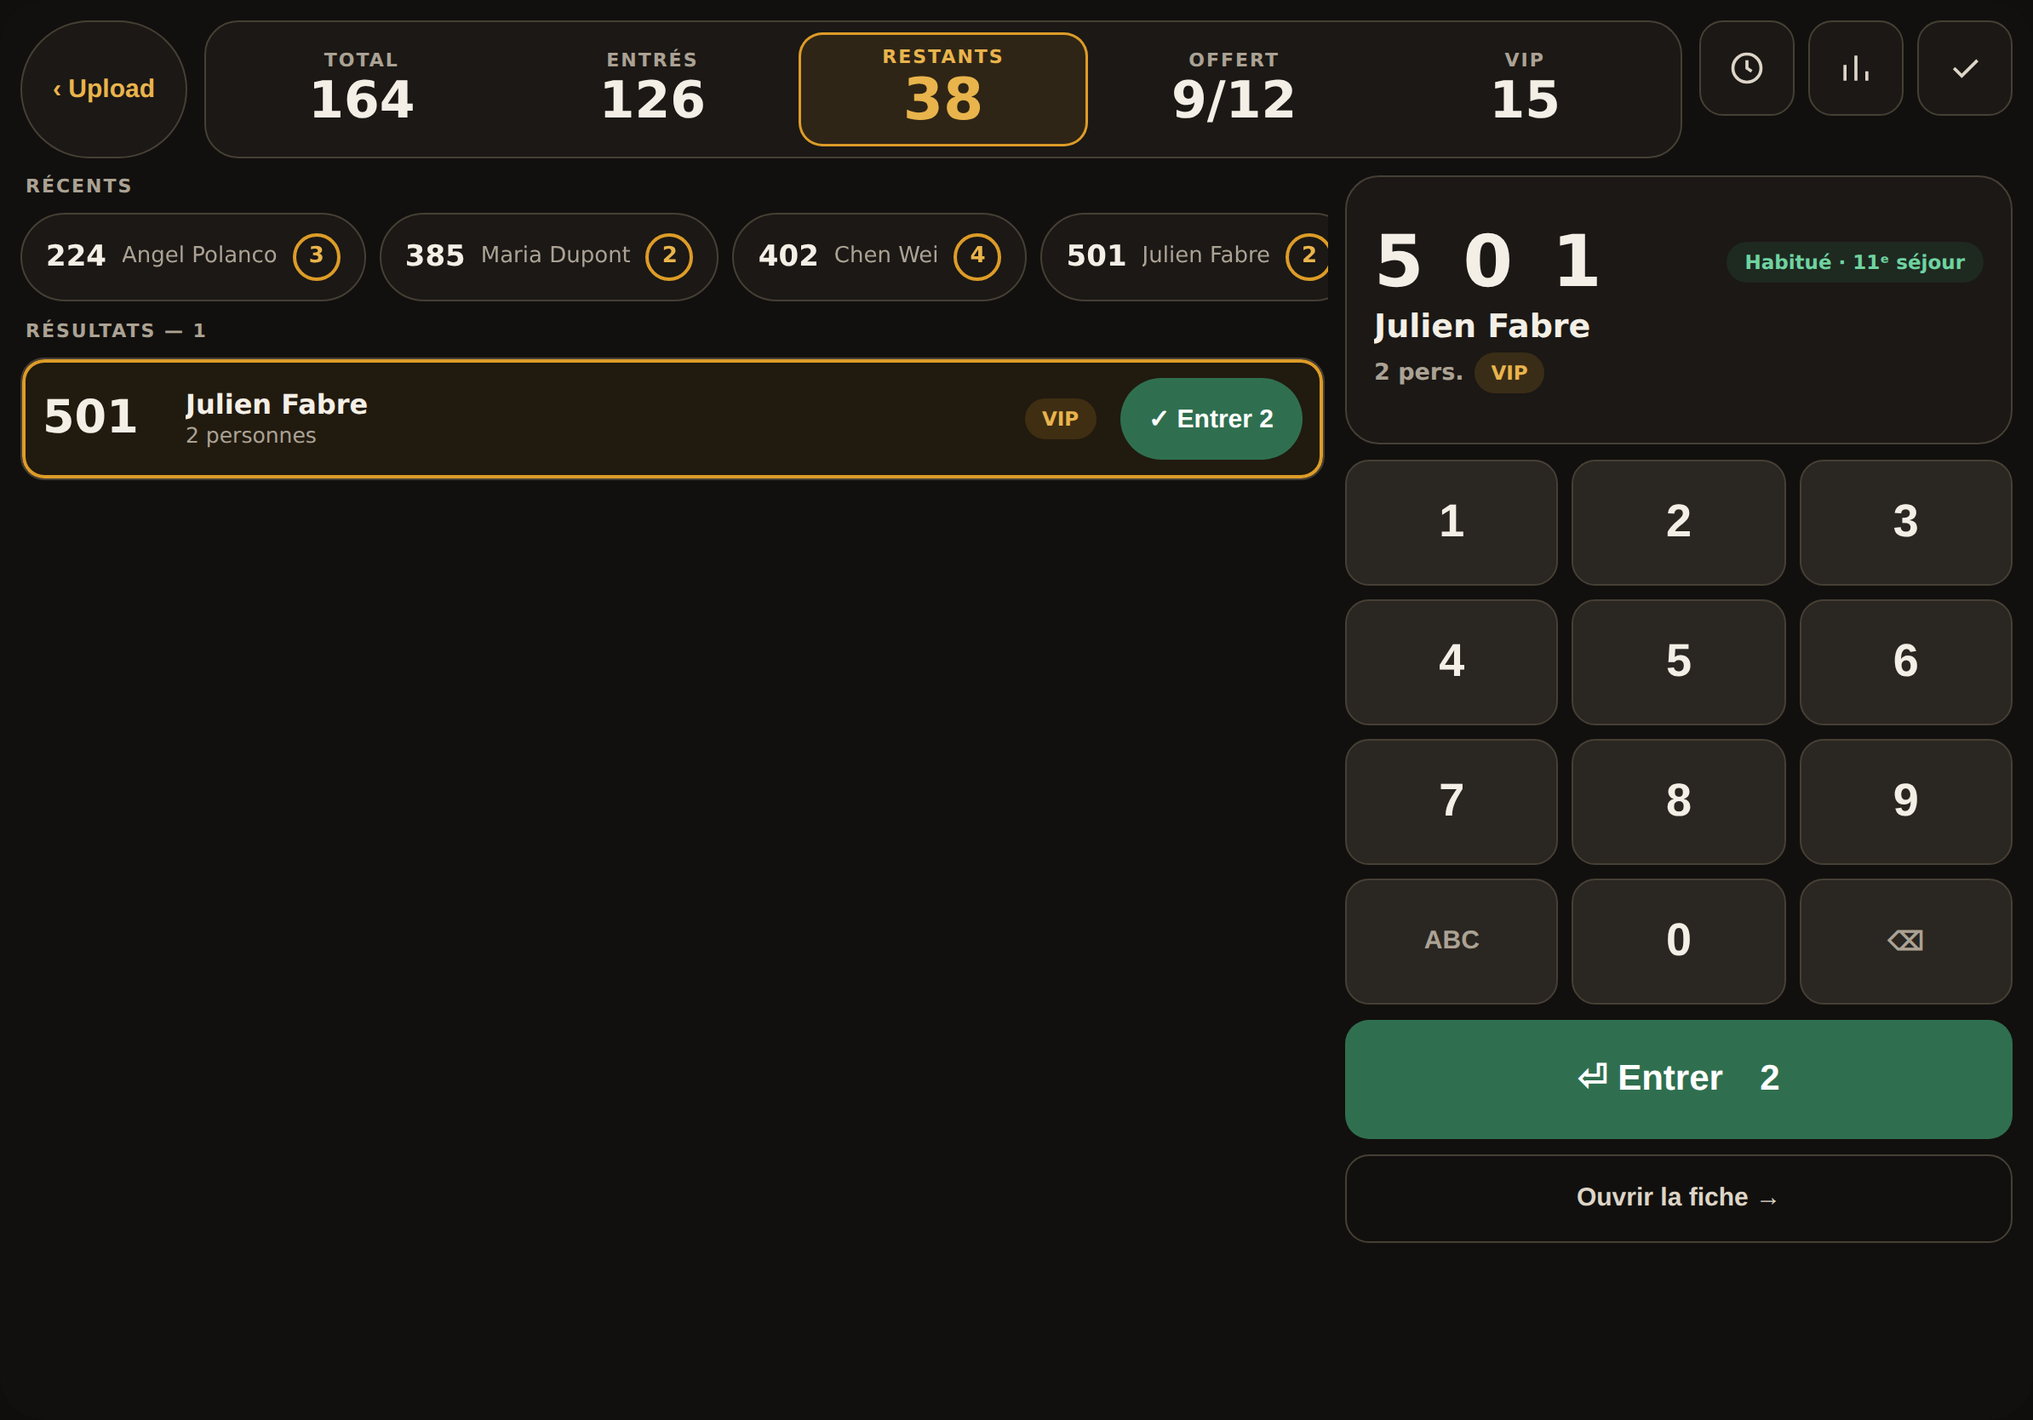
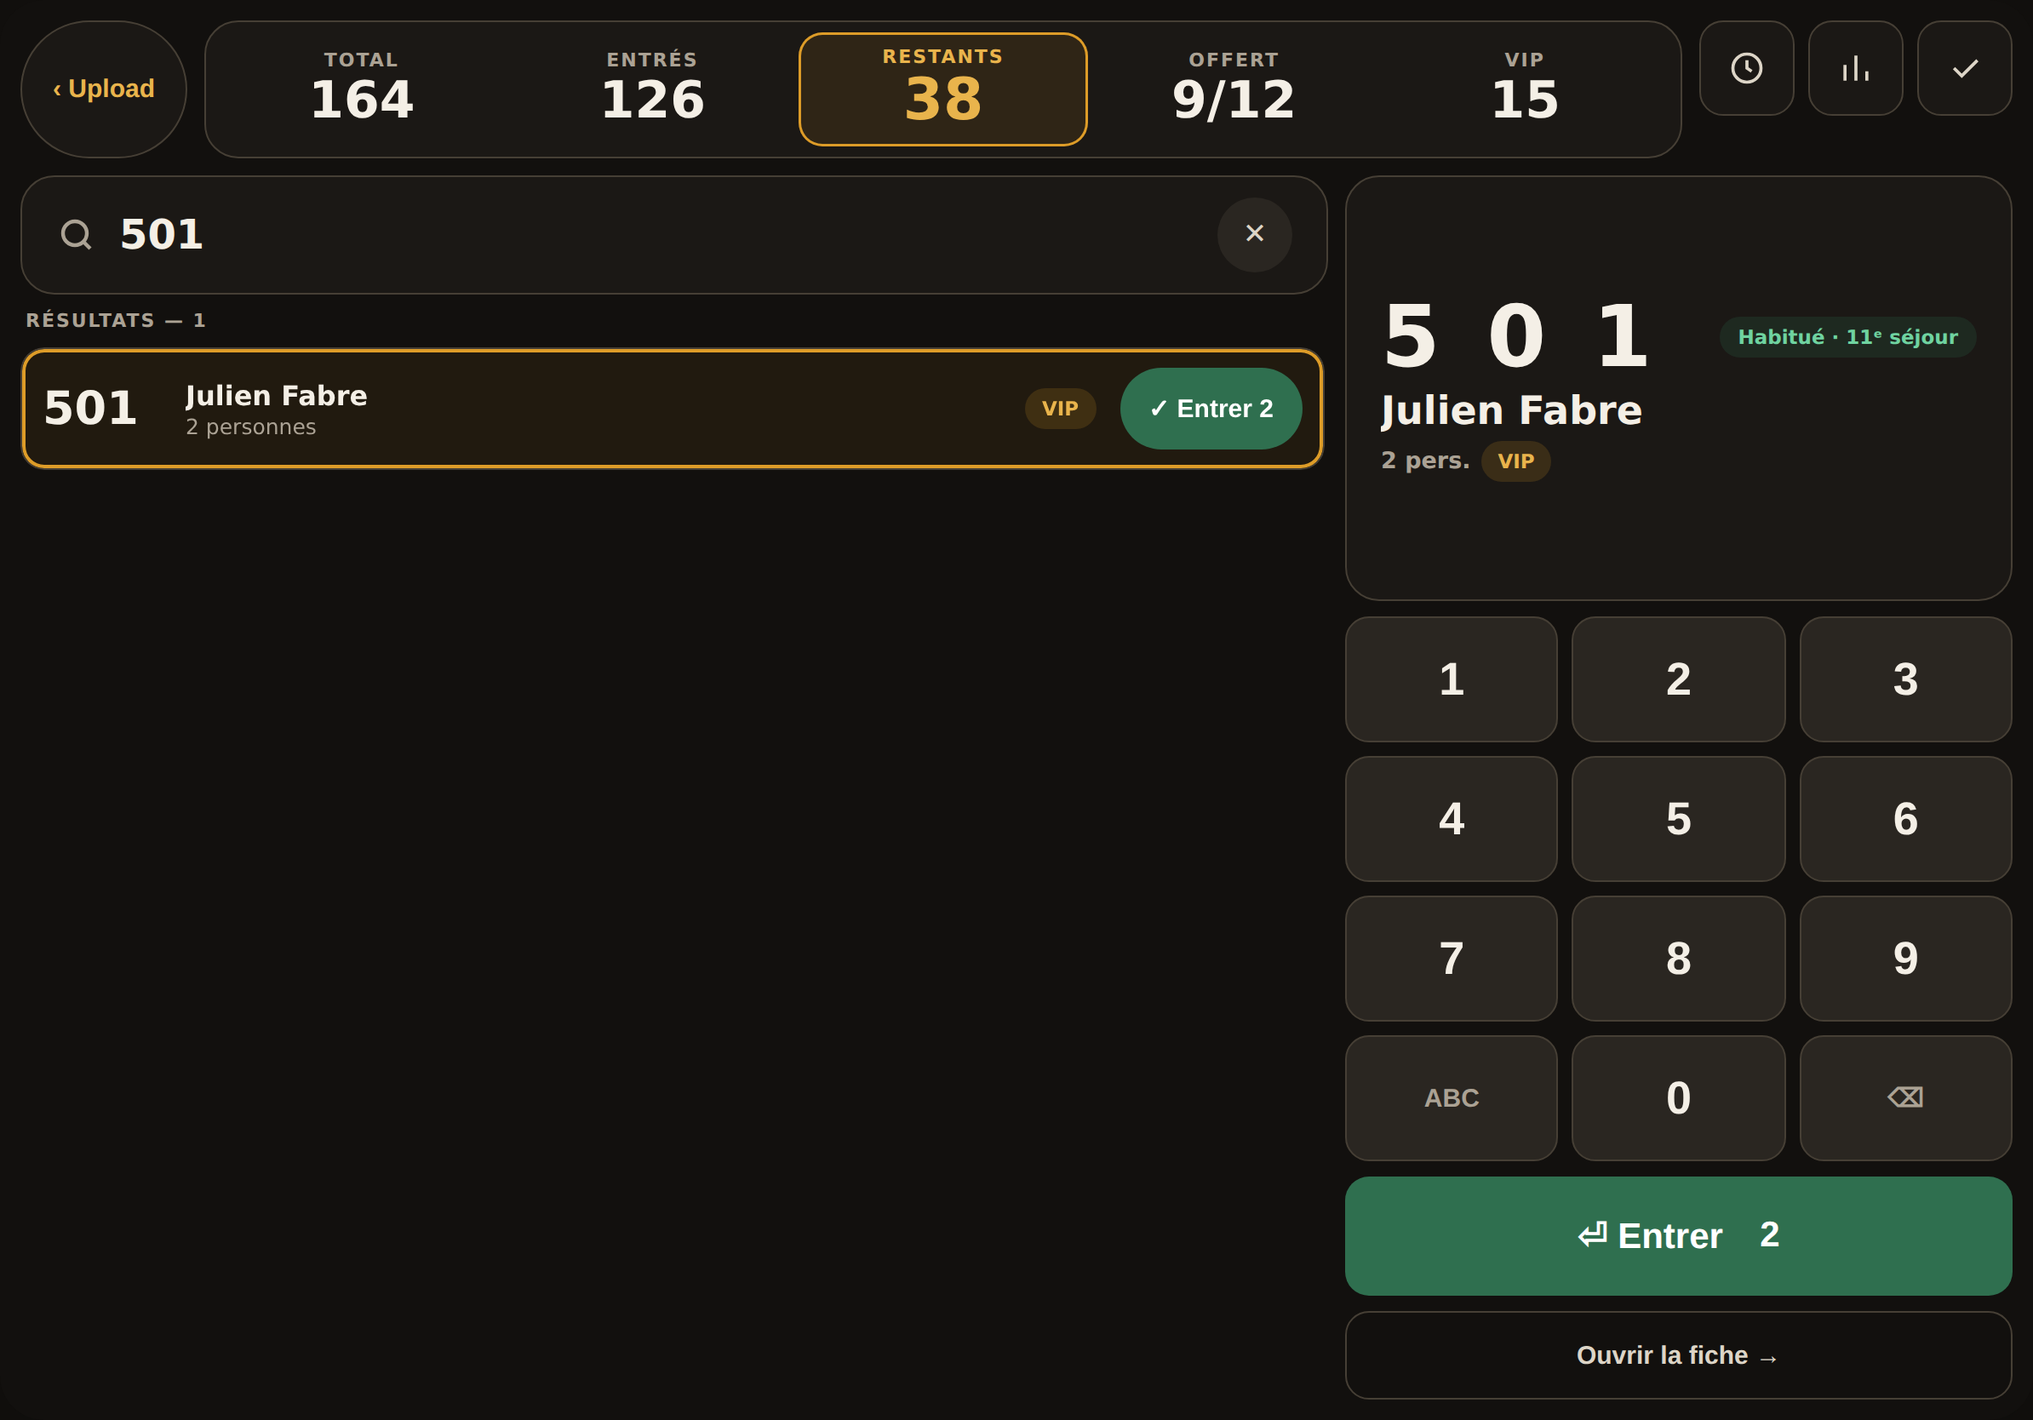
Search v2: swipe actions, big search bar, keypad pinned to the bottom
Swipe, per the tablet gesture idea, with one change I argued for: right
finishes the room, left adds exactly ONE and the row stays in place with
live progress (2/4 entrés + bar). Repeated swiping for a family of four
would have been slower than the counter it replaced, and 'right = all,
left = one-by-one' gave two same-valence gestures with nothing to make
the direction memorable. Right = finish, left = add one is learnable.

Guardrails, because a gesture is easier to fire by accident than a tap:
the visible buttons stay (swipe is invisible and unusable for anyone who
cannot perform it), every commit raises an undo toast, swipe is disabled
on alert / à encaisser rows, and a failed write snaps back instead of
animating a success it did not earn.

The right column now pins the keypad and CTA to the bottom and gives the
whole top to the clock/preview, which grows the clock to 66px.

The recents strip is replaced by a large search bar — recents already
exist as the Historique panel behind the clock icon. The field takes
digits from the keypad and names from ABC; a name that narrows to a
single guest counts as a hit, so Enter works for names too.

Fixes a bug this introduced: wrapping rows in the swipe container made
them flex-shrinkable, so they overlapped and clipped their own second
line.

Claude-Session: https://claude.ai/code/session_01PvjN1yrwGssKpuvjG4vcfR

diff --git a/mockups/search-v2.html b/mockups/search-v2.html
@@ -31,7 +31,7 @@
     font-family:'Nunito',-apple-system,system-ui,sans-serif;
     -webkit-font-smoothing:antialiased;
   }
-  .frame{width:1194px;height:834px;margin:18px auto;display:flex;flex-direction:column;
+  .frame{position:relative;width:1194px;height:834px;margin:18px auto;display:flex;flex-direction:column;
     gap:10px;padding:12px;background:var(--bg);border-radius:26px;overflow:hidden;
     box-shadow:0 30px 90px -30px rgba(0,0,0,.6)}
 
@@ -69,6 +69,17 @@
   .sec{font-size:11px;letter-spacing:.09em;text-transform:uppercase;
     color:var(--muted);font-weight:800;padding-left:3px}
 
+  /* search bar — the keypad fills it with digits, the on-screen ABC or a
+     paired keyboard fills it with a name. One field, two ways in. */
+  .searchbar{display:flex;align-items:center;gap:13px;padding:0 20px;min-height:70px;
+    background:var(--surface);border:1.5px solid var(--key-edge);border-radius:var(--r-lg)}
+  .searchbar svg{width:24px;height:24px;color:var(--muted);flex:none}
+  .searchbar input{flex:1;min-width:0;background:none;border:none;outline:none;
+    font:inherit;font-size:24px;font-weight:700;color:var(--ink)}
+  .searchbar input::placeholder{color:var(--muted);font-weight:600}
+  .clearq{width:44px;height:44px;border-radius:999px;border:none;background:var(--key);
+    color:var(--ink-2);font-size:17px;cursor:pointer;flex:none}
+
   /* recents strip */
   .recents{display:flex;gap:8px;overflow-x:auto;padding-bottom:2px}
   .chip{flex:none;display:flex;align-items:center;gap:9px;padding:0 14px;min-height:52px;
@@ -100,6 +111,39 @@
     /* A guest carrying an alert, or one who still owes for breakfast, cannot be
      waved through from the list. The row sends you to the fiche instead. */
   .go.needs{background:transparent;border:1.5px solid var(--key-edge);color:var(--ink-2)}
+
+  /* ── swipe ──────────────────────────────────────────────
+     Right = finish the room. Left = add one, row stays with live progress.
+     The buttons above remain the primary route: a gesture is invisible, and
+     an invisible-only action is unusable for anyone who cannot perform it. */
+  .swipe{flex:none;position:relative;border-radius:var(--r-md);overflow:hidden}
+  .sw-bg{position:absolute;inset:0;display:flex;align-items:center;padding:0 24px;
+    font-weight:800;font-size:15.5px;color:#fff;opacity:0}
+  .sw-all{background:var(--good);justify-content:flex-start}
+  .sw-one{background:var(--gold-deep);justify-content:flex-end}
+  .swipe .row{position:relative;touch-action:pan-y;will-change:transform;user-select:none}
+  .swipe .row.snap{transition:transform .24s cubic-bezier(.2,.85,.25,1)}
+  .swipe.locked .sw-bg{background:var(--key)}
+  .prog{height:5px;border-radius:999px;background:var(--key);overflow:hidden;
+    margin-top:5px;max-width:190px;border:1px solid var(--key-edge)}
+  .prog i{display:block;height:100%;background:var(--good);border-radius:999px;
+    transition:width .3s cubic-bezier(.2,.85,.25,1)}
+  .pop{position:absolute;right:150px;top:50%;transform:translateY(-50%);
+    font-size:23px;font-weight:800;color:var(--good-ink);pointer-events:none;
+    animation:popUp .62s cubic-bezier(.2,.8,.2,1) forwards}
+  @keyframes popUp{
+    0%{opacity:0;transform:translateY(-50%) scale(.6)}
+    22%{opacity:1;transform:translateY(-95%) scale(1.18)}
+    100%{opacity:0;transform:translateY(-210%) scale(1)}}
+
+  .toast{position:absolute;left:50%;bottom:18px;transform:translateX(-50%);
+    display:flex;align-items:center;gap:14px;padding:0 10px 0 20px;min-height:56px;
+    background:var(--surface);border:1px solid var(--key-edge);border-radius:999px;
+    box-shadow:0 18px 44px -14px rgba(0,0,0,.6);font-size:14.5px;font-weight:700;
+    z-index:40;animation:tIn .2s ease-out}
+  .toast button{min-height:44px;padding:0 18px;border-radius:999px;border:none;
+    background:var(--gold);color:#241F19;font-weight:800;font-size:14px;cursor:pointer}
+  @keyframes tIn{from{opacity:0;transform:translate(-50%,10px)}to{opacity:1;transform:translate(-50%,0)}}
   .row.done{opacity:.5}
   .row.done .go{background:transparent;color:var(--gold-ink);border:1.5px solid var(--key-edge)}
 
@@ -107,29 +151,33 @@
   /* One box, two jobs. Idle it is the service clock; searching it is the
      guest preview. Height is FIXED so the keypad never shifts under a
      thumb that is already moving toward it. */
+  /* The preview/clock takes ALL the space above; the keypad and its CTA are
+     pinned to the bottom of the column. Same rule as R1 on the check-in
+     screen: the thing you must reach never drifts away from the thumb. */
   .detail{background:var(--surface);border:1px solid var(--key-edge);
-    border-radius:var(--r-lg);padding:13px 16px;height:158px;display:flex;
+    border-radius:var(--r-lg);padding:18px 20px;flex:1;min-height:158px;display:flex;
     flex-direction:column;justify-content:center;overflow:hidden}
+  .pad,.enter,.secondary{flex:none}
 
   /* idle — service clock */
   .clockrow{display:flex;align-items:baseline;gap:10px}
-  .clock{font-size:52px;font-weight:800;line-height:1;font-variant-numeric:tabular-nums;
+  .clock{font-size:66px;font-weight:800;line-height:1;font-variant-numeric:tabular-nums;
     letter-spacing:-.01em}
   .rush{font-size:11px;font-weight:800;letter-spacing:.07em;text-transform:uppercase;
     padding:4px 9px;border-radius:999px;background:rgba(221,156,40,.16);color:var(--gold-ink)}
-  .bar{height:7px;border-radius:999px;background:var(--key);overflow:hidden;margin:11px 0 7px;
+  .bar{height:9px;border-radius:999px;background:var(--key);overflow:hidden;margin:11px 0 7px;
     border:1px solid var(--key-edge)}
   .bar i{display:block;height:100%;background:var(--gold);border-radius:999px}
-  .svc{display:flex;justify-content:space-between;font-size:12.5px;color:var(--muted);
+  .svc{display:flex;justify-content:space-between;font-size:13.5px;color:var(--muted);
     font-weight:700}
   .svc b{color:var(--ink-2)}
 
   /* searching — guest preview */
-  .typed{font-size:42px;font-weight:800;letter-spacing:.10em;font-variant-numeric:tabular-nums;
+  .typed{font-size:50px;font-weight:800;letter-spacing:.10em;font-variant-numeric:tabular-nums;
     line-height:1}
   .typed .ph{color:var(--muted);opacity:.45}
   .prow{display:flex;align-items:center;justify-content:space-between;gap:10px}
-  .dname{font-size:19px;font-weight:700;margin-top:6px;white-space:nowrap;overflow:hidden;
+  .dname{font-size:23px;font-weight:700;margin-top:6px;white-space:nowrap;overflow:hidden;
     text-overflow:ellipsis}
   .dsub{font-size:13.5px;color:var(--muted);margin-top:4px;display:flex;gap:6px;align-items:center;flex-wrap:wrap}
   .dnone{font-size:14px;color:var(--muted);margin-top:8px}
@@ -192,8 +240,11 @@
   <!-- body -->
   <div class="body" id="split">
     <div class="left">
-      <div class="sec">Récents</div>
-      <div class="recents" id="recents"></div>
+      <div class="searchbar">
+        <svg viewBox="0 0 24 24" fill="none" stroke="currentColor" stroke-width="2.2"><circle cx="11" cy="11" r="7"/><path d="M20 20l-3.5-3.5"/></svg>
+        <input id="q" placeholder="Chambre ou nom du client…" autocomplete="off">
+        <button class="clearq" id="clearq" aria-label="Effacer">✕</button>
+      </div>
       <div class="sec" id="listLabel">Restants — 38 chambres</div>
       <div class="list" id="list"></div>
     </div>
@@ -244,12 +295,25 @@ document.addEventListener("keydown", e=>{
 function press(k){
   if(k==="⌫") typed = typed.slice(0,-1);
   else if(k==="ABC"){ /* alpha mode — out of scope for the mockup */ }
-  else if(typed.length<4) typed += k;
+  else if(typed.length<12) typed += k;
+  el("q").value = typed;
   render();
 }
 
-function match(){ return ROOMS.filter(x=>x.r.startsWith(typed)); }
-function exact(){ return typed.length>=3 ? ROOMS.find(x=>x.r===typed) : null; }
+const isNum = (q)=>/^\d+$/.test(q);
+function match(){
+  const q = typed.trim().toLowerCase();
+  if(!q) return ROOMS;
+  return isNum(q) ? ROOMS.filter(x=>x.r.startsWith(q))
+                  : ROOMS.filter(x=>x.n.toLowerCase().includes(q));
+}
+/* A "hit" is an unambiguous target: the exact room, or the only name left. */
+function exact(){
+  const q = typed.trim().toLowerCase(); if(!q) return null;
+  if(isNum(q)) return q.length>=3 ? ROOMS.find(x=>x.r===q) : null;
+  const m = match();
+  return q.length>=2 && m.length===1 ? m[0] : null;
+}
 
 function tagsFor(x){
   let t="";
@@ -288,7 +352,7 @@ function serviceBox(){
     </div>`;
 }
 
-function render(){
+var render = function(){
   const hit = exact();
   const near = match();
 
@@ -298,15 +362,15 @@ function render(){
   } else if(hit){
     el("detail").innerHTML = `
       <div class="prow">
-        <div class="typed">${typed.split("").join(" ")}</div>
+        <div class="typed">${isNum(typed)?typed.split("").join(" "):typed}</div>
         ${whoBadge(hit)}
       </div>
       <div class="dname">${hit.n}</div>
       <div class="dsub"><b>${hit.p} pers.</b> ${tagsFor(hit)}</div>`;
   } else {
     el("detail").innerHTML = `
-      <div class="typed">${typed.split("").join(" ")}</div>
-      <div class="dnone">${near.length} chambre(s) commencent par ${typed}</div>`;
+      <div class="typed">${isNum(typed)?typed.split("").join(" "):typed}</div>
+      <div class="dnone">${near.length} résultat(s) pour « ${typed} »</div>`;
   }
 
   /* ── actions ── */
@@ -338,36 +402,121 @@ function render(){
   el("listLabel").textContent = typed
     ? `Résultats — ${shown.length}`
     : `Restants — ${ROOMS.filter(x=>!x.done).length} chambres`;
-  el("list").innerHTML = shown.map(x=>`
-    <div class="row ${x.done?"done":""} ${hit&&hit.r===x.r?"hit":""}">
-      <div class="rm">${x.r}</div>
-      <div class="nm">
-        <div class="n">${x.n}</div>
-        <div class="s">${x.p} personne${x.p>1?"s":""}${x.done?" · déjà entré":""}</div>
+  el("list").innerHTML = shown.map(x=>{
+    const inn = x.in || 0, rem = x.p - inn, done = rem <= 0;
+    const locked = !!(x.alert || x.pay);   // no gesture past an allergy or a bill
+    return `
+    <div class="swipe ${locked?"locked":""}" data-r="${x.r}">
+      <div class="sw-bg sw-all">✓ Entrer tous (${rem})</div>
+      <div class="sw-bg sw-one">+1 personne</div>
+      <div class="row ${done?"done":""} ${hit&&hit.r===x.r?"hit":""}">
+        <div class="rm">${x.r}</div>
+        <div class="nm">
+          <div class="n">${x.n}</div>
+          <div class="s">${done ? "tous entrés" : inn ? `${inn}/${x.p} entrés` : `${x.p} personne${x.p>1?"s":""}`}</div>
+          ${inn && !done ? `<div class="prog"><i style="width:${(inn/x.p*100)}%"></i></div>` : ""}
+        </div>
+        <div class="tags">${tagsFor(x)}</div>
+        <button class="go ${locked&&!done?"needs":""}">${
+          done ? "✓ Entré"
+          : x.alert ? "⚠ Ouvrir →"
+          : x.pay   ? "Encaisser →"
+          : "✓ Entrer "+rem}</button>
       </div>
-      <div class="tags">${tagsFor(x)}</div>
-      <button class="go ${(x.alert||x.pay)&&!x.done?"needs":""}">${
-        x.done ? "✓ Entré"
-        : x.alert ? "⚠ Ouvrir →"
-        : x.pay   ? "Encaisser →"
-        : "✓ Entrer "+x.p}</button>
-    </div>`).join("");
-}
+    </div>`;}).join("");
+};
 
-el("recents").innerHTML = RECENT.map(r=>{
-  const x = ROOMS.find(y=>y.r===r);
-  return `<div class="chip" data-r="${r}"><b>${x.r}</b><span class="who">${x.n}</span><span class="pax">${x.p}</span></div>`;
-}).join("");
-el("recents").addEventListener("click",e=>{
-  const c=e.target.closest("[data-r]"); if(!c) return;
-  typed=c.dataset.r; render();
-});
+
+el("q").addEventListener("input", (e)=>{ typed = e.target.value; render(); });
+el("clearq").addEventListener("click", ()=>{ typed=""; el("q").value=""; el("q").focus(); render(); });
 
 function doEnter(){
   const hit = exact(); if(!hit) return;
   const b=el("enter"); b.textContent="✓ Enregistré"; b.style.background="var(--gold-deep)";
   setTimeout(()=>{ typed=""; render(); b.style.background=""; },700);
 }
+/* ── swipe ───────────────────────────────────────────────────────────
+   Right past the threshold finishes the room; left adds exactly one and
+   leaves the row in place with live progress. Under the threshold it
+   snaps back, so a stray horizontal nudge during a vertical scroll costs
+   nothing. Every committed swipe is undoable. */
+const THRESHOLD = 88;
+let drag = null;
+
+/* keep the visible field authoritative after programmatic changes */
+const _r = render; render = function(){ if(el("q").value !== typed) el("q").value = typed; _r(); };
+
+el("list").addEventListener("pointerdown", (e)=>{
+  const row = e.target.closest(".swipe .row"); if(!row) return;
+  if(e.target.closest("button")) return;
+  const wrap = row.parentElement;
+  if(wrap.classList.contains("locked")) return;
+  const x = ROOMS.find(r=>r.r===wrap.dataset.r);
+  if(!x || (x.in||0) >= x.p) return;
+  drag = { row, wrap, x, x0:e.clientX, dx:0 };
+  row.classList.remove("snap");
+  row.setPointerCapture(e.pointerId);
+});
+
+el("list").addEventListener("pointermove", (e)=>{
+  if(!drag) return;
+  drag.dx = e.clientX - drag.x0;
+  const d = Math.max(-160, Math.min(160, drag.dx));
+  drag.row.style.transform = `translateX(${d}px)`;
+  const over = Math.min(1, Math.abs(d)/THRESHOLD);
+  drag.wrap.querySelector(".sw-all").style.opacity = d > 0 ? over : 0;
+  drag.wrap.querySelector(".sw-one").style.opacity = d < 0 ? over : 0;
+});
+
+function endDrag(){
+  if(!drag) return;
+  const {row, wrap, x, dx} = drag;
+  row.classList.add("snap");
+  row.style.transform = "translateX(0)";
+  wrap.querySelectorAll(".sw-bg").forEach(b=>b.style.opacity=0);
+  if(dx >= THRESHOLD)      commit(x, x.p - (x.in||0), row);   // everyone left
+  else if(dx <= -THRESHOLD) commit(x, 1, row);                // one more
+  drag = null;
+}
+el("list").addEventListener("pointerup", endDrag);
+el("list").addEventListener("pointercancel", endDrag);
+
+function commit(x, n, row){
+  // A real save can fail (storage full). The animation must never claim a
+  // success the write did not earn — this is the check-in bug as a gesture.
+  const ok = saveCheckIn(x, n);
+  if(!ok){ toast(`Chambre ${x.r} — NON enregistré`, null); render(); return; }
+  if(n === 1 && row){
+    const pop = document.createElement("div");
+    pop.className = "pop"; pop.textContent = "+1";
+    row.appendChild(pop); setTimeout(()=>pop.remove(), 640);
+  }
+  render();
+  toast(`${x.r} · ${n} personne${n>1?"s":""} entrée${n>1?"s":""}`, ()=>{
+    x.in = Math.max(0, (x.in||0) - n); render();
+  });
+}
+
+/* stand-in for addCheckIn(); returns false when the write would not land */
+function saveCheckIn(x, n){ x.in = (x.in||0) + n; return true; }
+
+let toastT = null;
+function toast(msg, undo){
+  document.querySelector(".toast")?.remove();
+  const t = document.createElement("div");
+  t.className = "toast";
+  t.innerHTML = `<span>${msg}</span>`;
+  if(undo){
+    const b = document.createElement("button");
+    b.textContent = "Annuler";
+    b.onclick = ()=>{ undo(); t.remove(); };
+    t.appendChild(b);
+  }
+  document.getElementById("frame").appendChild(t);
+  clearTimeout(toastT);
+  toastT = setTimeout(()=>t.remove(), 4200);
+}
+
 el("enter").addEventListener("click", doEnter);
 el("openfile").addEventListener("click", ()=>{ if(exact()) alert("→ fiche client (maquette)"); });
 setInterval(()=>{ clockM=(clockM+1)%60; if(clockM===0) clockH=(clockH+1)%24; if(!typed) render(); }, 60000);
